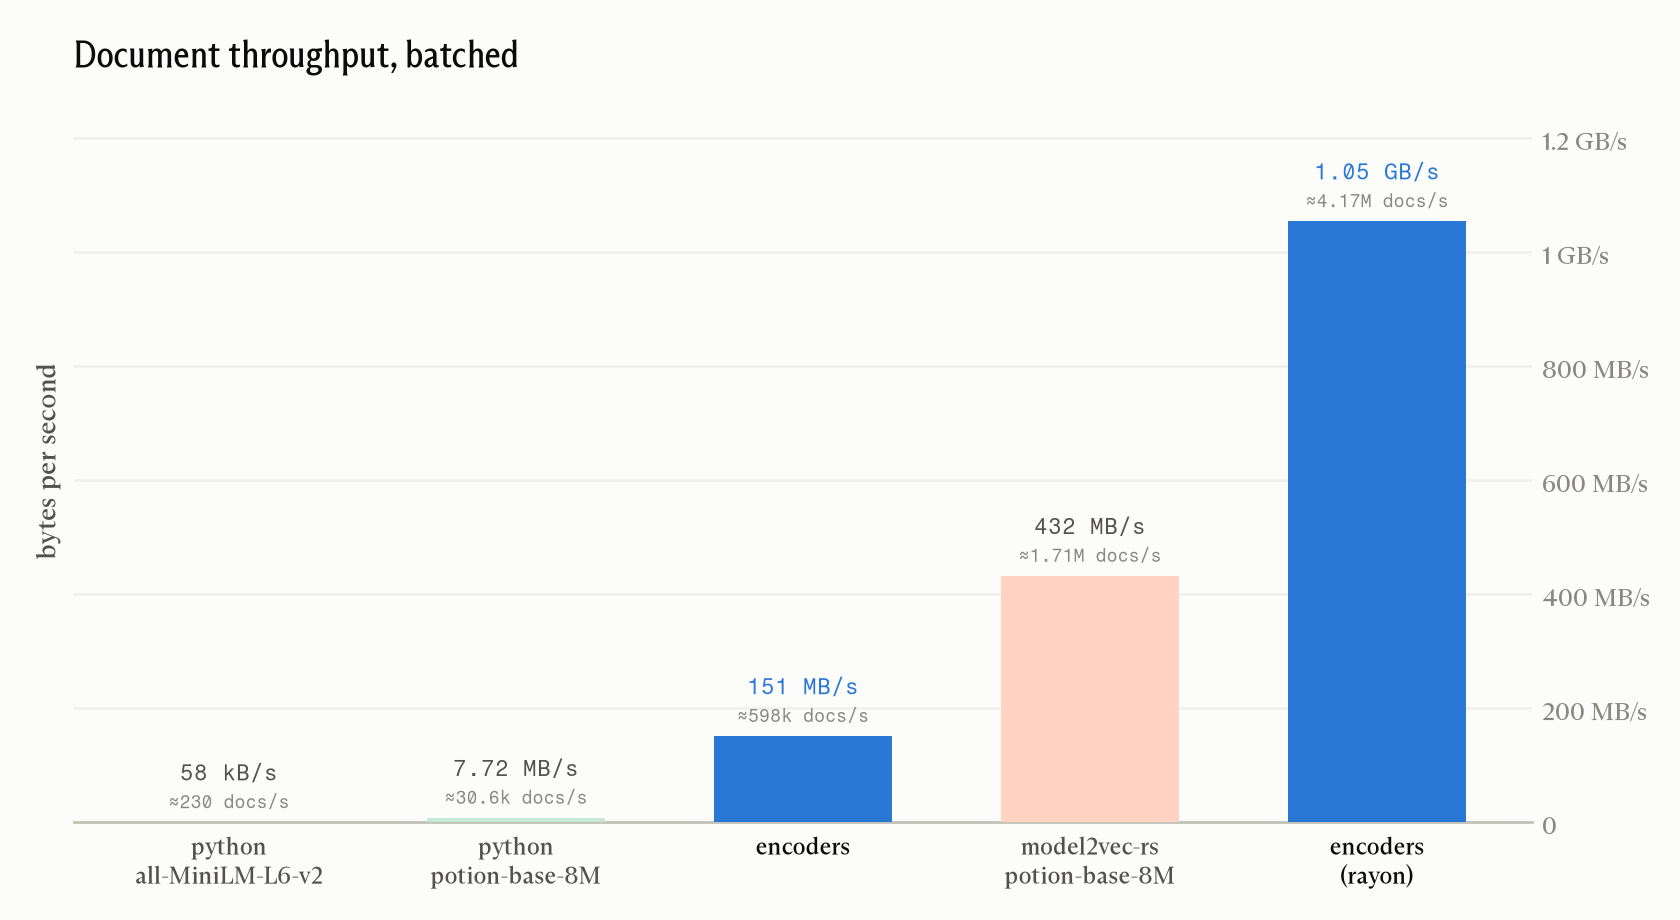
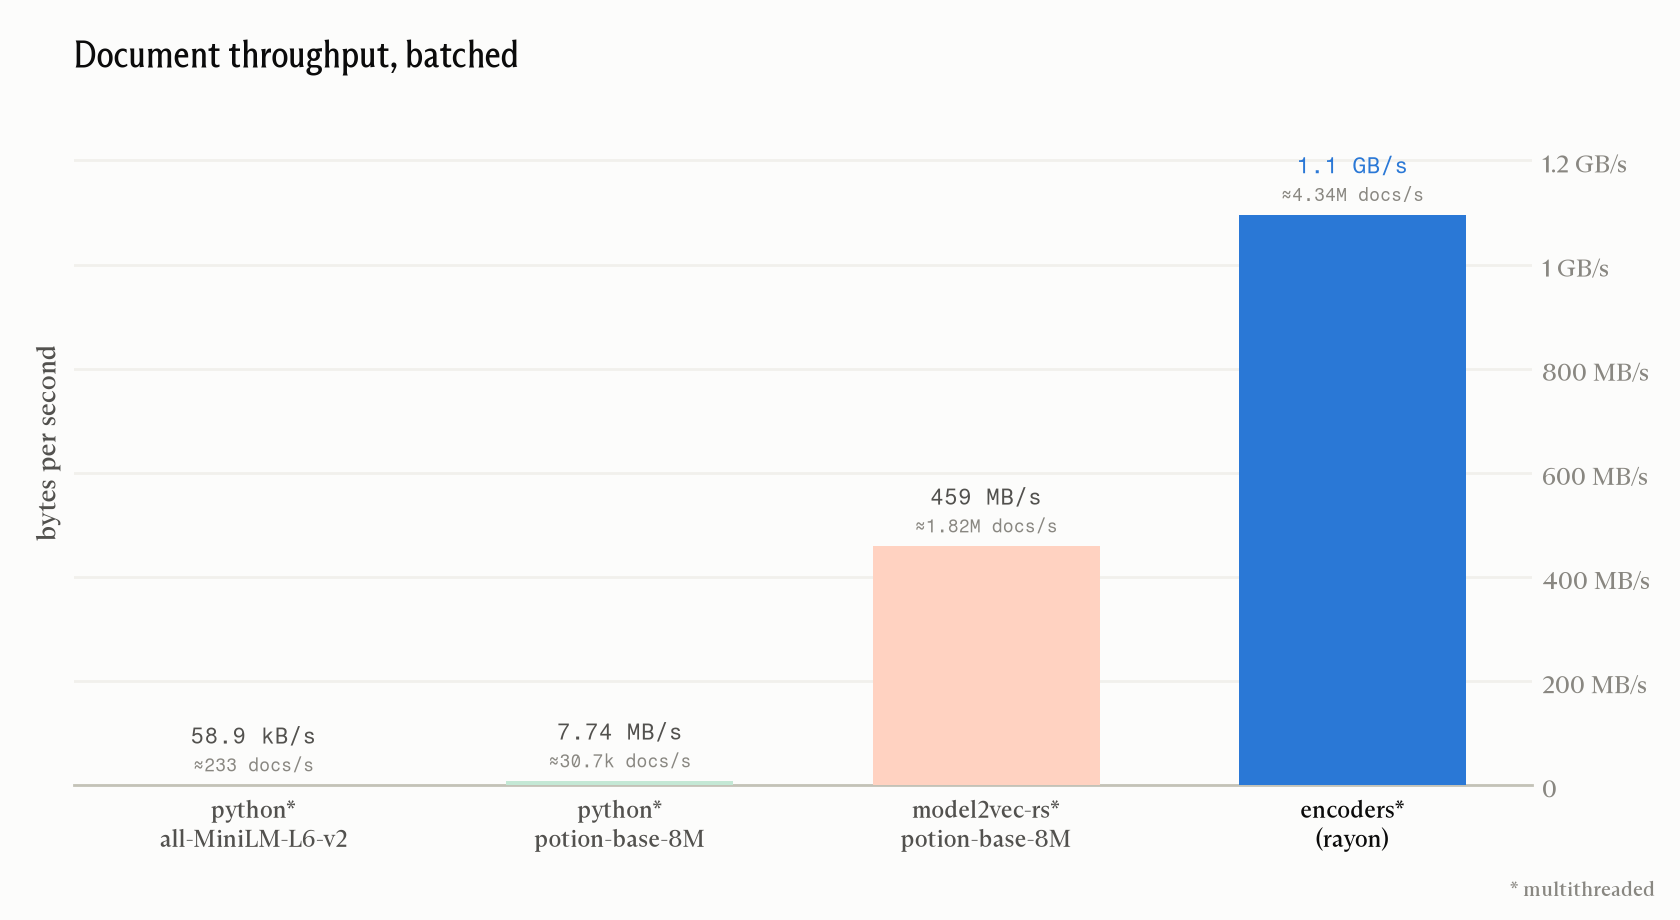
speed up benchmark harness & regenerate charts

diff --git a/bench/py/charts.py b/bench/py/charts.py
@@ -4,7 +4,9 @@
     uv run charts.py --no-bench   # re-render from the last run
     uv run charts.py --no-rust    # only the python QPS bench, then render
 
-Writes `.github/throughput.png` (bytes/s over gooaq text),
+Writes `.github/throughput.png` (bytes/s over gooaq answers, log scale; the
+parallel encoders bar is the `corpus` group's, measured once over the same
+batch),
 `.github/qps.png` (gooaq questions, one per call) and `.github/corpus.png`
 (gooaq answers, one batch). The last two lead with bytes/s and show an
 approximate queries/s or documents/s beneath each value: bytes/s divided by
@@ -13,7 +15,8 @@ criterion's `target/criterion/<group>/.../new/estimates.json`, with the text
 count and size the bench recorded in `target/criterion/<group>/texts.json`;
 the python numbers are measured by `qps.measure_queries` /
 `qps.measure_corpus` and cached in `benchmarks/qps.json` /
-`benchmarks/corpus.json`.
+`benchmarks/corpus.json`. Bars that run on more than one thread wear an
+asterisk, explained under the chart.
 """
 
 import json
@@ -44,22 +47,33 @@ THROUGHPUT_LABELS = {
     "encoders": "encoders",
     "encoders-rayon": "encoders\n(rayon)",
     "tokenize": "HF tokenizers\nWordPiece only",
-    "sha256_soft": "SHA-256\nsha2 crate",
+    "sha256": "SHA-256\nhardware accel.",
+    "sha256_soft": "SHA-256\nsoftware backend",
     "gzip": "gzip\nflate2 crate",
     "tantivy_index": "tantivy index\nin-memory",
 }
 # encoders is built with model2vec-rs's model (potion-base-8M, float32) here.
-CORPUS_LABELS = {
-    "encoders": "encoders\n",
-    "encoders-rayon": "encoders\n(rayon)",
+# The batched chart shows only the parallel encoders bar; single-text calls
+# never go parallel, so the unbatched one shows only the single-threaded bar.
+_COMPARED = {
     "model2vec-rs": "model2vec-rs\npotion-base-8M",
     "minishlab/potion-base-8M": "python\npotion-base-8M",
     "sentence-transformers/all-MiniLM-L6-v2": "python\nall-MiniLM-L6-v2",
 }
-# Single-text calls never go parallel, so there is no rayon bar here.
-QPS_LABELS = {k: v for k, v in CORPUS_LABELS.items() if k != "encoders-rayon"}
+CORPUS_LABELS = {"encoders-rayon": "encoders\n(rayon)", **_COMPARED}
+QPS_LABELS = {"encoders": "encoders\n", **_COMPARED}
 PY_MODELS = ["minishlab/potion-base-8M", "sentence-transformers/all-MiniLM-L6-v2"]
 HIGHLIGHT = {"encoders", "encoders-rayon"}
+# Bars that run on more than one thread, per chart. tantivy's index writer
+# spawns several indexing threads; model2vec-rs batches through a rayon
+# parallel iterator; the python batches go through a Hugging Face tokenizer
+# that spreads them across every core. Unbatched queries are single-threaded
+# everywhere.
+THROUGHPUT_MULTI = {"encoders-rayon", "tantivy_index"}
+CORPUS_MULTI = {"encoders-rayon", "model2vec-rs", *PY_MODELS}
+MULTI_NOTE = "* multithreaded"
+# The throughput chart's parallel encoders bar, borrowed from this group.
+ENCODERS_GROUP = "corpus"
 # Every bar other than `HIGHLIGHT` is re-cut in OKLCH: chroma scaled by
 # OTHER_SATURATION (0 = gray, 1 = the palette's own chroma) and lightness
 # pinned to OTHER_LIGHTNESS (0..1, perceptual) so dark slots such as green
@@ -123,21 +137,13 @@ def bar_colors(keys: list[str], labels: dict[str, str], t) -> list[str]:
 
 
 def run_rust_benches():
-    # `throughput` measures encoders at its defaults; `queries` and `corpus`
-    # build it with model2vec-rs's model. A `rayon` build records only the
-    # parallel encoders bar under a second id, so `queries` (single-text calls,
-    # never parallel) skips it.
-    runs = [
-        ("throughput", ""),
-        ("throughput", "rayon"),
-        ("queries", ""),
-        ("corpus", ""),
-        ("corpus", "rayon"),
-    ]
-    for bench, features in runs:
-        extra = ["--features", features] if features else []
+    # Every bench once in the default build, then the rayon build for the one
+    # bar it adds: the parallel encoders bar of `corpus`, recorded under a
+    # second id. `throughput` and `queries` have nothing parallel to add.
+    runs = [[], ["--bench", "corpus", "--features", "rayon"]]
+    for extra in runs:
         subprocess.run(
-            ["cargo", "bench", "-p", "encoders-bench", "--bench", bench, *extra],
+            ["cargo", "bench", "-p", "encoders-bench", *extra],
             cwd=ROOT,
             check=True,
         )
@@ -255,13 +261,15 @@ def bars(
     log: bool,
     unit: str,
     sub: dict[str, str] | None = None,
+    multi: set[str] = frozenset(),
     mode: str = "light",
 ):
     """Vertical bars, lowest to highest. `HIGHLIGHT` takes categorical slot 1
     at full saturation; the rest get their own slots at `OTHER_SATURATION`.
     Values in mono above each bar; only the highlight label wears its color.
     `sub` adds a smaller muted line under a bar's value (an approximate rate
-    in other units)."""
+    in other units). Bars in `multi` get an asterisk on their label's first
+    line and `MULTI_NOTE` under the chart."""
     t = TOKENS[mode]
     fams = fonts.register()
     plt.rcParams["font.family"] = [fams["text"], "DejaVu Sans"]
@@ -325,9 +333,11 @@ def bars(
                 zorder=5,
             )
     ax.set_xticks(list(xs))
-    ax.set_xticklabels(
-        [labels.get(k, k) for k, _ in items], fontsize=8.5, color=t["ink2"]
-    )
+    def tick(k: str) -> str:
+        first, *rest = labels.get(k, k).split("\n")
+        return "\n".join([first + ("*" if k in multi else ""), *rest])
+
+    ax.set_xticklabels([tick(k) for k, _ in items], fontsize=8.5, color=t["ink2"])
     for lab, (k, _) in zip(ax.get_xticklabels(), items):
         if k in HIGHLIGHT:
             lab.set_color(t["ink"])
@@ -342,6 +352,18 @@ def bars(
         pad=12,
     )
     fig.tight_layout()
+    if any(k in multi for k, _ in items):
+        # Bottom right, clear of the tick labels and the axis title.
+        fig.subplots_adjust(bottom=fig.subplotpars.bottom + 0.04)
+        fig.text(
+            0.985,
+            0.02,
+            MULTI_NOTE,
+            ha="right",
+            va="bottom",
+            fontsize=7.5,
+            color=t["muted"],
+        )
     out.parent.mkdir(parents=True, exist_ok=True)
     fig.savefig(out, facecolor=t["surface"])
     plt.close(fig)
@@ -362,17 +384,23 @@ def main():
         corpus_py = cached(CORPUS_CACHE)
 
     throughput = criterion_results("throughput")
+    throughput.update(
+        (k, v)
+        for k, v in criterion_results(ENCODERS_GROUP).items()
+        if k == "encoders-rayon"
+    )
     bars(
         throughput,
         THROUGHPUT_LABELS,
         "Throughput",
         "bytes per second",
         OUT / "throughput.png",
-        log=False,
+        log=True,
         unit="B/s",
+        multi=THROUGHPUT_MULTI,
     )
 
-    for group, py, column, labels, title, noun, out in (
+    for group, py, column, labels, title, noun, out, multi in (
         (
             "queries",
             qps_py,
@@ -381,6 +409,7 @@ def main():
             "Query throughput, unbatched",
             "queries",
             "qps.png",
+            set(),
         ),
         (
             "corpus",
@@ -390,6 +419,7 @@ def main():
             "Document throughput, batched",
             "docs",
             "corpus.png",
+            CORPUS_MULTI,
         ),
     ):
         by, tx = rates(group, py, column)
@@ -402,6 +432,7 @@ def main():
             log=False,
             unit="B/s",
             sub={k: f"≈{fmt_rate(v, noun)} {noun}/s" for k, v in tx.items()},
+            multi=multi,
         )
 
 

diff --git a/bench/benches/throughput.rs b/bench/benches/throughput.rs
@@ -1,21 +1,26 @@
-//! One throughput number (bytes per second of UTF-8 input) for `encoders` at
-//! its default settings next to a few familiar per-byte workloads, all over the
-//! same 65,536 gooaq questions, each driven the way its API expects.
+//! Throughput (bytes per second of UTF-8 input) of `encoders` next to a few
+//! familiar per-byte workloads over the same 65,536 gooaq answers `corpus`
+//! embeds, each driven the way its API expects. This bench records nothing in
+//! the `rayon` build; the chart's parallel encoders bar is `corpus`'s
+//! `encoders-rayon`, measured over that same batch.
 //!
-//! - `encoders`: `encode` over the whole slice. With `--features rayon` this
-//!   is recorded as `encoders-rayon` and the other workloads are skipped.
+//! - `encoders`: `encode` over the whole slice on one thread.
 //! - `tokenize`: the HuggingFace `tokenizers` crate running this model's own
 //!   `tokenizer.json`, ids only, no embedding lookup.
-//! - `sha256_soft`: `sha2` with `force-soft`, no SHA-NI / ARMv8 crypto.
+//! - `sha256`: `sha2` with whatever hardware backend the CPU offers (SHA-NI,
+//!   ARMv8 crypto extensions).
+//! - `sha256_soft`: `sha2` 0.10 with `force-soft`, portable code only.
 //! - `gzip`: `flate2` at the default level, sentences streamed newline-separated
 //!   through one encoder into a sink (one gzip member per sentence would mostly
 //!   measure deflate setup).
 //! - `tantivy_index`: building an in-RAM index over all the sentences, one
-//!   `TEXT` field, including the commit.
+//!   `TEXT` field, including the commit. tantivy's writer indexes on
+//!   several threads.
 
 use criterion::{Criterion, SamplingMode, Throughput, criterion_group, criterion_main};
 use flate2::{Compression, write::GzEncoder};
 use sha2::{Digest, Sha256};
+use sha2_soft::Digest as _;
 use std::hint::black_box;
 use std::io::Write;
 use std::path::PathBuf;
@@ -25,15 +30,7 @@ use tantivy::{Index, doc};
 
 mod common;
 
-/// Criterion id of the encoders bar; `--features rayon` records a second one.
-const ENCODERS_ID: &str = if cfg!(feature = "rayon") {
-    "encoders-rayon"
-} else {
-    "encoders"
-};
-use common::target_dir;
-
-use crate::common::load_answers;
+use common::{load_answers, target_dir};
 
 /// The `tokenizer.json` ese-build downloaded for the compiled model. It sits
 /// at the cache root or, for sentence-transformers layouts, one folder down.
@@ -56,6 +53,10 @@ fn tokenizer_path() -> PathBuf {
 }
 
 fn bench_throughput(c: &mut Criterion) {
+    if cfg!(feature = "rayon") {
+        // Nothing here depends on encoders' rayon feature.
+        return;
+    }
     let sentences = &load_answers()[..65536];
     let bytes: u64 = sentences.iter().map(|s| s.len() as u64).sum();
     eprintln!(
@@ -74,16 +75,9 @@ fn bench_throughput(c: &mut Criterion) {
     group.sample_size(10);
     group.sampling_mode(SamplingMode::Flat);
 
-    group.bench_function(ENCODERS_ID, |b| {
-        b.iter(|| {
-            let _ = black_box(encoders::encode(sentences));
-        });
+    group.bench_function("encoders", |b| {
+        b.iter(|| black_box(encoders::encode(black_box(sentences))));
     });
-    if cfg!(feature = "rayon") {
-        // Only the encoders bar differs between builds.
-        group.finish();
-        return;
-    }
 
     {
         let tokenizer = tokenizers::Tokenizer::from_file(tokenizer_path())
@@ -102,6 +96,14 @@ fn bench_throughput(c: &mut Criterion) {
         b.iter(|| {
             for s in sentences {
                 black_box(Sha256::digest(black_box(s).as_bytes()));
+            }
+        });
+    });
+
+    group.bench_function("sha256_soft", |b| {
+        b.iter(|| {
+            for s in sentences {
+                black_box(sha2_soft::Sha256::digest(black_box(s).as_bytes()));
             }
         });
     });

diff --git a/bench/benches/corpus.rs b/bench/benches/corpus.rs
@@ -3,11 +3,11 @@
 //! question-sized `queries` bench) through each library's batch API. The
 //! readme chart also shows an approximate documents/s, from the text count
 //! and size recorded by `common::record_texts`. Mirrored for python by `py/qps.py --corpus`.
+//! The throughput chart reuses the encoders bar from here.
 //!
-//! - `encoders`: `encode` over the batch on one thread, built with
-//!   `--features potion-base-8m` (the same model as model2vec-rs, stored as
-//!   float32). With `--features rayon` this is recorded as
-//!   `encoders-rayon` on every core and model2vec-rs is skipped.
+//! - `encoders-rayon`: `encode` over the batch on every core, recorded only
+//!   with `--features rayon` (which skips model2vec-rs). The single-threaded
+//!   batch encode is the `throughput` bench's encoders bar.
 //! - `model2vec-rs`: model2vec's default model (`minishlab/potion-base-8M`,
 //!   256 dimensions), downloaded through hf-hub on first run. Its `encode`
 //!   tokenizes and pools each document in a rayon parallel iterator, so it
@@ -20,12 +20,6 @@ use std::time::Duration;
 
 mod common;
 
-/// Criterion id of the encoders bar; `--features rayon` records a second one.
-const ENCODERS_ID: &str = if cfg!(feature = "rayon") {
-    "encoders-rayon"
-} else {
-    "encoders"
-};
 use common::load_answers;
 
 const MODEL2VEC_DEFAULT: &str = "minishlab/potion-base-8M";
@@ -42,11 +36,11 @@ fn bench_corpus(c: &mut Criterion) {
     group.sample_size(10);
     group.sampling_mode(SamplingMode::Flat);
 
-    group.bench_function(ENCODERS_ID, |b| {
-        b.iter(|| black_box(encoders::encode(black_box(batch))));
-    });
     if cfg!(feature = "rayon") {
-        // Only the encoders bar differs between builds.
+        // The rayon build adds only the parallel encoders bar.
+        group.bench_function("encoders-rayon", |b| {
+            b.iter(|| black_box(encoders::encode(black_box(batch))));
+        });
         group.finish();
         return;
     }
